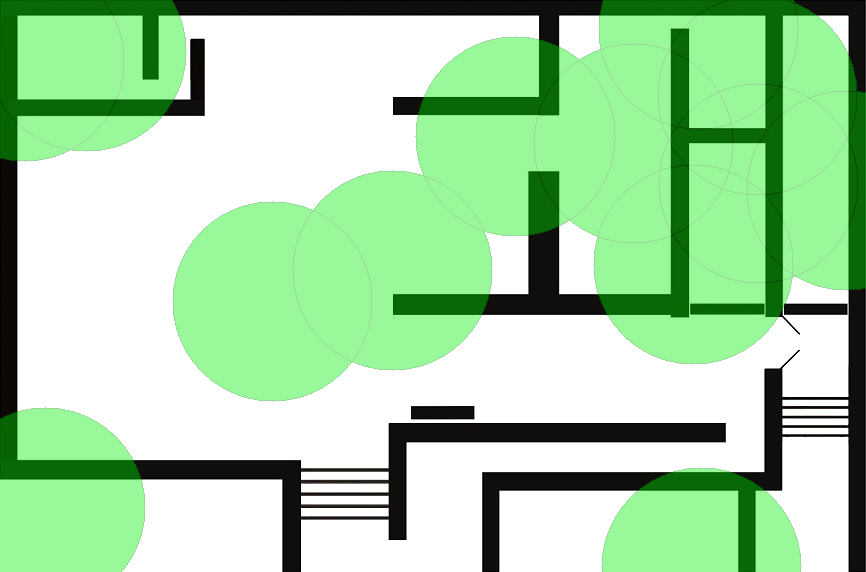
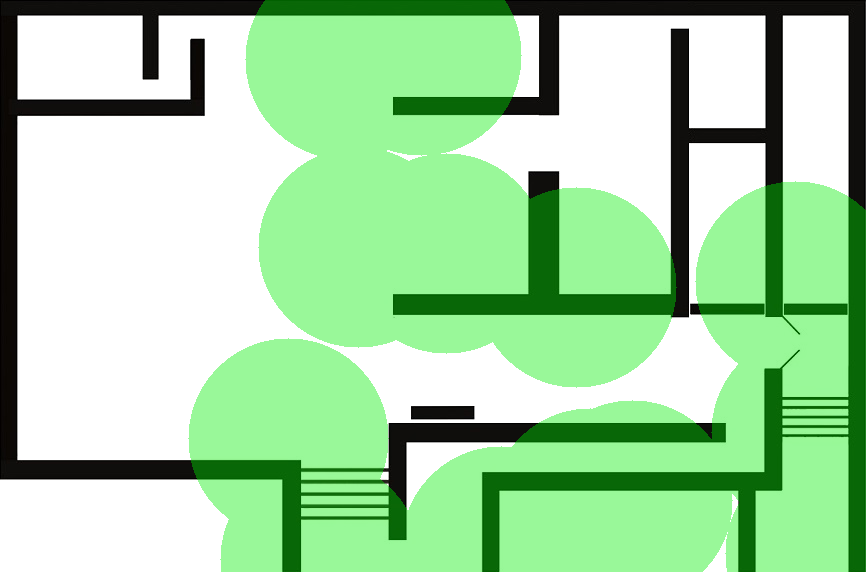
update_value()

diff --git a/main.py b/main.py
@@ -156,15 +156,21 @@ def area_valuer(img):
 			if 	(img[x,y][0] < 64 and img[x,y][1] < 64 and img[x,y][2] < 128):
 				# walls
 				coord_vals[x][y] = 1
+				img[x,y] = (7, 0, 11)
 			else:
 				coord_vals[x][y] = 0
+				img[x,y] = (255,255,255)
 
 			if 	(img[x,y][0] < 128 and img[x,y][1] > 128 and img[x,y][2] < 128):
 				# coverage
 				coord_vals[x][y] = 2
 
+	cv2.imwrite('value.png',img)
+
 	if pd.DataFrame(coord_vals).to_csv('coord_vals.csv')==True: 
 		print("coord_vals.csv saved")
+
+	return img
 
 def selectROI_area(image):
 	r = cv2.selectROI("select the area", image)
@@ -204,8 +210,6 @@ def cctv_quantity_initializer(img,scale):
 	print("\nInitializing cctv quantity: ", quantity)
 	return quantity
 
-# genetic algorithm ----------------------------------------
-
 def rand_coords(max_cctv,img):
 	w, h, _ = img.shape
 
@@ -214,9 +218,6 @@ def rand_coords(max_cctv,img):
 	rand = (randx,randy)
 
 	while len(rand_list) < max_cctv: # cctv quan
-		print(rand)
-		# print(str(rand)+" : "+str(img[randx,randy][:]))
-		print(coord_vals[randx][randy])
 
 		if coord_vals[randx][randy] == 1: # ERROR index out of range
 			randx = random.randint(0,w)
@@ -237,6 +238,10 @@ def rand_coords(max_cctv,img):
 				# 		rand_list.append(rand)
 				# else:	
 					rand_list.append(rand)
+
+		print(rand)
+		# print(str(rand)+" : "+str(img[randx,randy][:]))
+		print(coord_vals[randx][randy])
 	
 	print("\n ----------------------------------------------------------------")
 	radius = int(CCTV_RADIUS/default_scale)
@@ -246,11 +251,14 @@ def rand_coords(max_cctv,img):
 
 		# rand[1],rand[0] for image !!!!!!!!!!!
 		imgArea = circleArea(imgArea, rand, radius, (0, 191, 0), -1)
+	cv2.imwrite('imgArea.png',imgArea)
+
 	for rand in rand_list:
 
 		# rand[1],rand[0] for image !!!!!!!!!!!
-		imgArea = circleArea(imgArea, rand, radius, (0, 128, 0), 1)
-	cv2.imwrite('imgArea.png',imgArea)
+		imgAreaOutline = circleArea(img, rand, radius, (0, 128, 0), 1)
+	
+	cv2.imwrite('imgAreaOutline.png',imgAreaOutline)
 	
 
 	imgCoord = cv2.imread('art.png')
@@ -285,34 +293,79 @@ def rand_coords(max_cctv,img):
 
 	return rand_list
 
+def update_value():
+	imgValue = cv2.imread('imgArea.png')
+	w, h, _ = imgValue.shape
+
+	for x in range(0,w):
+		for y in range(0,h):
+			if 	coord_vals[x][y] == 1:
+				# walls
+				imgValue[x,y] = (7, 0, 11)
+
+			if 	(imgValue[x,y][0] < 64 and imgValue[x,y][1] > 128 and imgValue[x,y][2] < 64):
+				imgValue[x,y] = (0, 191, 0)
+				coord_vals[x][y] = 2
+
+	cv2.imwrite('latestValue.png',imgValue)
+
+# genetic algorithm ----------------------------------------
 def cal_pop_fitness(): # value[], randList[]
+
+	imgValue = cv2.imread('rand.png')
+
+	for x in range(0,w):
+		for y in range(0,h):
+			# count total value for green area
+			if 	(imgValue[x,y][0] < 64 and imgValue[x,y][1] < 64 and imgValue[x,y][2] < 128):
+				# walls
+				coord_vals[x][y] = 1
+				imgValue[x,y] = (7, 0, 11)
+			else:
+				coord_vals[x][y] = 0
+				imgValue[x,y] = (255,255,255)
+
+			if 	(imgValue[x,y][0] < 128 and imgValue[x,y][1] > 128 and imgValue[x,y][2] < 128):
+				# coverage
+				coord_vals[x][y] = 2
+
     # Calculating the fitness value of each solution in the current population.
     # The fitness function caulcuates the sum of products between each input and its corresponding weight.
     # fitness = np.sum(pop*equation_inputs, axis=1)
-	
-	# Reading an image in default mode
-	image = cv2.imread('art.png', 1)
-	
-	# Window name in which image is displayed
-	window_name = 'Image'
 
-	# Center coordinates
-	# center_coordinates = pop[:]
+def select_mating_pool(pop, fitness, num_parents):
+    # Selecting the best individuals in the current generation as parents for producing the offspring of the next generation.
+    parents = np.empty((num_parents, pop.shape[1]))
+    for parent_num in range(num_parents):
+        max_fitness_idx = np.where(fitness == np.max(fitness))
+        max_fitness_idx = max_fitness_idx[0][0]
+        parents[parent_num, :] = pop[max_fitness_idx, :]
+        fitness[max_fitness_idx] = -99999999999
+    return parents
 
-	# Radius of circle
-	radius = 2
+def crossover(parents, offspring_size):
+    offspring = np.empty(offspring_size)
+    # The point at which crossover takes place between two parents. Usually it is at the center.
+    crossover_point = np.uint8(offspring_size[1]/2)
 
-	# Blue color in BGR
-	color = (127, 127, 0)
+    for k in range(offspring_size[0]):
+        # Index of the first parent to mate.
+        parent1_idx = k%parents.shape[0]
+        # Index of the second parent to mate.
+        parent2_idx = (k+1)%parents.shape[0]
+        # The new offspring will have its first half of its genes taken from the first parent.
+        offspring[k, 0:crossover_point] = parents[parent1_idx, 0:crossover_point]
+        # The new offspring will have its second half of its genes taken from the second parent.
+        offspring[k, crossover_point:] = parents[parent2_idx, crossover_point:]
+    return offspring
 
-	# Line thickness of 2 px
-	thickness = -1
-
-	# print(pop[-1])
-	i=0
-
-	# if cv2.imwrite('rand.png', image) == True:
-	# 	print("\nrand.png saved")
+def mutation(offspring_crossover):
+    # Mutation changes a single gene in each offspring randomly.
+    for idx in range(offspring_crossover.shape[0]):
+        # The random value to be added to the gene.
+        random_value = np.random.uniform(-1.0, 1.0, 1)
+        offspring_crossover[idx, 4] = offspring_crossover[idx, 4] + random_value
+    return offspring_crossover
 
 # ------------------------------------------------------------------------------------------------------
 
@@ -365,7 +418,9 @@ if __name__=="__main__":
 
 	randList = rand_coords(cctv_quantity,availableArea_image)
 
-	cal_pop_fitness()
+	# cal_pop_fitness()
+
+	update_value()
 
 	# print(randList[1])
 
